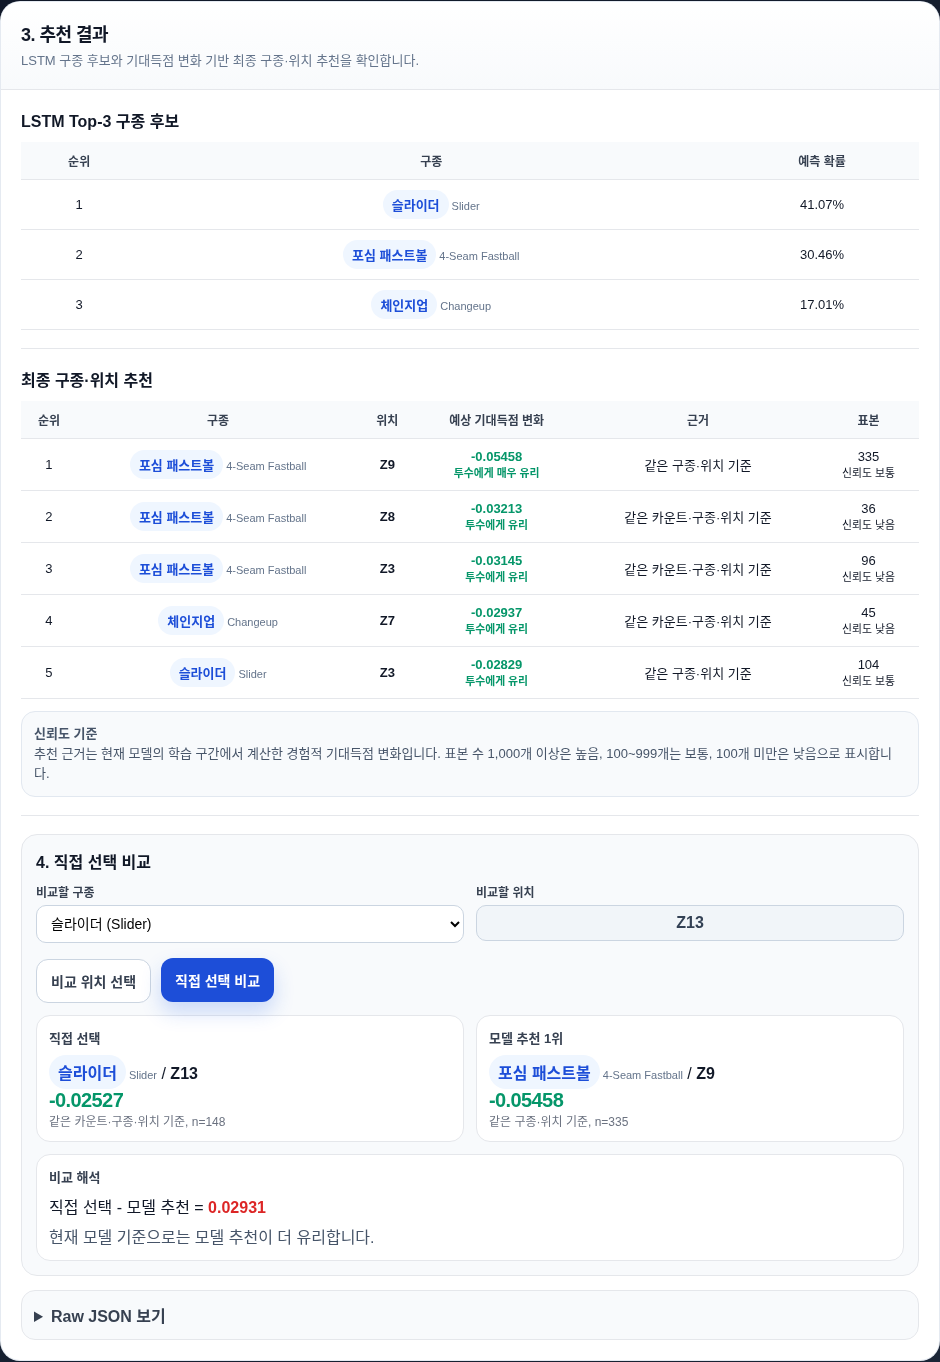
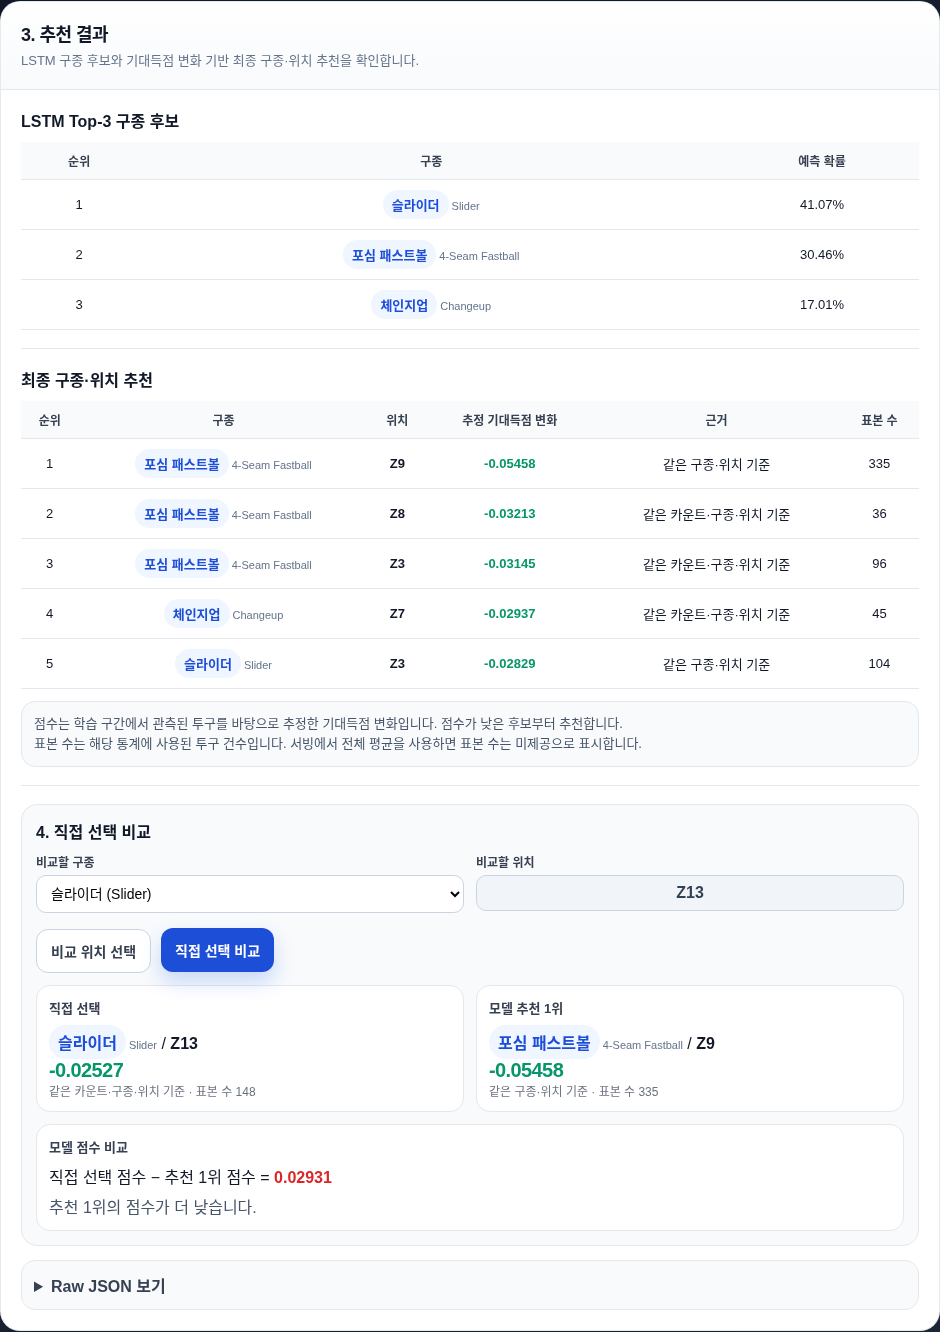
Clarify demo scores and update the maintenance checklist (#24)

diff --git a/web/frontend/assets/app.js b/web/frontend/assets/app.js
@@ -250,17 +250,9 @@
       return "score-neutral";
     }
 
-    function riskText(value) {
-      if (value < -0.04) return "투수에게 매우 유리";
-      if (value < -0.01) return "투수에게 유리";
-      if (value < 0.02) return "중립";
-      return "공격팀에게 유리";
-    }
-
-    function confidenceLabel(count) {
-      if (count >= 1000) return "높음";
-      if (count >= 100) return "보통";
-      return "낮음";
+    function sourceCountLabel(item) {
+      if (item.source === "global" && item.source_count === 0) return "미제공";
+      return item.source_count.toLocaleString();
     }
 
     function sourceLabel(source) {
@@ -530,9 +522,9 @@
           <td>${idx + 1}</td>
           <td><span class="pitch-pill">${pitchLabel(item.pitch_type)}</span><span class="code-sub">${pitchEnglish(item.pitch_type)}</span></td>
           <td><b>${item.zone}</b></td>
-          <td class="${cls}">${item.pred_delta_run_exp.toFixed(5)}<br/><small>${riskText(item.pred_delta_run_exp)}</small></td>
+          <td class="${cls}">${item.pred_delta_run_exp.toFixed(5)}</td>
           <td>${sourceLabel(item.source)}</td>
-          <td>${item.source_count.toLocaleString()}<br/><small>신뢰도 ${confidenceLabel(item.source_count)}</small></td>
+          <td>${sourceCountLabel(item)}</td>
         `;
         tbody.appendChild(tr);
       });
@@ -547,23 +539,23 @@
       if (!best) { box.innerHTML = `<div class="mini-card">모델 추천 결과가 없습니다.</div>`; return; }
       const selectedCls = riskClass(selected.pred_delta_run_exp);
       const bestCls = riskClass(best.pred_delta_run_exp);
-      const message = cmp.is_selected_better_or_equal ? "직접 선택이 모델 추천과 같거나 더 유리합니다." : "현재 모델 기준으로는 모델 추천이 더 유리합니다.";
+      const message = cmp.is_selected_better_or_equal ? "직접 선택 점수가 추천 1위와 같거나 낮습니다." : "추천 1위의 점수가 더 낮습니다.";
       box.innerHTML = `
         <div class="mini-card">
           <h4>직접 선택</h4>
           <div><span class="pitch-pill">${pitchLabel(selected.pitch_type)}</span><span class="code-sub">${pitchEnglish(selected.pitch_type)}</span> / <b>${selected.zone}</b></div>
           <div class="mini-value ${selectedCls}">${selected.pred_delta_run_exp.toFixed(5)}</div>
-          <div style="color:#6b7280;font-size:12px;">${sourceLabel(selected.source)}, n=${selected.source_count.toLocaleString()}</div>
+          <div style="color:#6b7280;font-size:12px;">${sourceLabel(selected.source)} · 표본 수 ${sourceCountLabel(selected)}</div>
         </div>
         <div class="mini-card">
           <h4>모델 추천 1위</h4>
           <div><span class="pitch-pill">${pitchLabel(best.pitch_type)}</span><span class="code-sub">${pitchEnglish(best.pitch_type)}</span> / <b>${best.zone}</b></div>
           <div class="mini-value ${bestCls}">${best.pred_delta_run_exp.toFixed(5)}</div>
-          <div style="color:#6b7280;font-size:12px;">${sourceLabel(best.source)}, n=${best.source_count.toLocaleString()}</div>
+          <div style="color:#6b7280;font-size:12px;">${sourceLabel(best.source)} · 표본 수 ${sourceCountLabel(best)}</div>
         </div>
         <div class="mini-card" style="grid-column:1 / -1;">
-          <h4>비교 해석</h4>
-          <div>직접 선택 - 모델 추천 = <b class="${cmp.selected_minus_best <= 0 ? "score-good" : "score-bad"}">${cmp.selected_minus_best.toFixed(5)}</b></div>
+          <h4>모델 점수 비교</h4>
+          <div>직접 선택 점수 − 추천 1위 점수 = <b class="${cmp.selected_minus_best <= 0 ? "score-good" : "score-bad"}">${cmp.selected_minus_best.toFixed(5)}</b></div>
           <div style="margin-top:6px;color:#475569;">${message}</div>
         </div>
       `;

diff --git a/web/frontend/index.html b/web/frontend/index.html
@@ -47,7 +47,7 @@
           <div class="info-box" style="margin-bottom: 14px;">
             <b>데모 투수 기준</b><br />
             현재 화면은 고정 예시 투수 ID를 기준으로 추천합니다. 학습 기간에 해당 투수가 없으면 미등록 투수로 처리합니다.
-            실제 서비스에서는 팀/투수 선택 기능으로 확장할 수 있습니다.
+            타자 방향은 LSTM이 구종 후보를 정할 때 사용하는 입력입니다.
           </div>
 
           <div class="field-grid">
@@ -177,12 +177,11 @@
           <div class="section-divider"></div>
 
           <h3 style="margin: 0 0 10px; font-size: 16px;">최종 구종·위치 추천</h3>
-          <table class="table" id="recTable"><thead><tr><th>순위</th><th>구종</th><th>위치</th><th>예상 기대득점 변화</th><th>근거</th><th>표본</th></tr></thead><tbody><tr><td colspan="6">아직 추천을 실행하지 않았습니다.</td></tr></tbody></table>
+          <table class="table" id="recTable"><thead><tr><th>순위</th><th>구종</th><th>위치</th><th>추정 기대득점 변화</th><th>근거</th><th>표본 수</th></tr></thead><tbody><tr><td colspan="6">아직 추천을 실행하지 않았습니다.</td></tr></tbody></table>
 
           <div class="info-box" style="margin-top: 12px;">
-            <b>신뢰도 기준</b><br />
-            추천 근거는 현재 모델의 학습 구간에서 계산한 경험적 기대득점 변화입니다.
-            표본 수 1,000개 이상은 높음, 100~999개는 보통, 100개 미만은 낮음으로 표시합니다.
+            점수는 학습 구간에서 관측된 투구를 바탕으로 추정한 기대득점 변화입니다. 점수가 낮은 후보부터 추천합니다.<br />
+            표본 수는 해당 통계에 사용된 투구 건수입니다. 서빙에서 전체 평균을 사용하면 표본 수는 미제공으로 표시합니다.
           </div>
 
           <div class="section-divider"></div>
